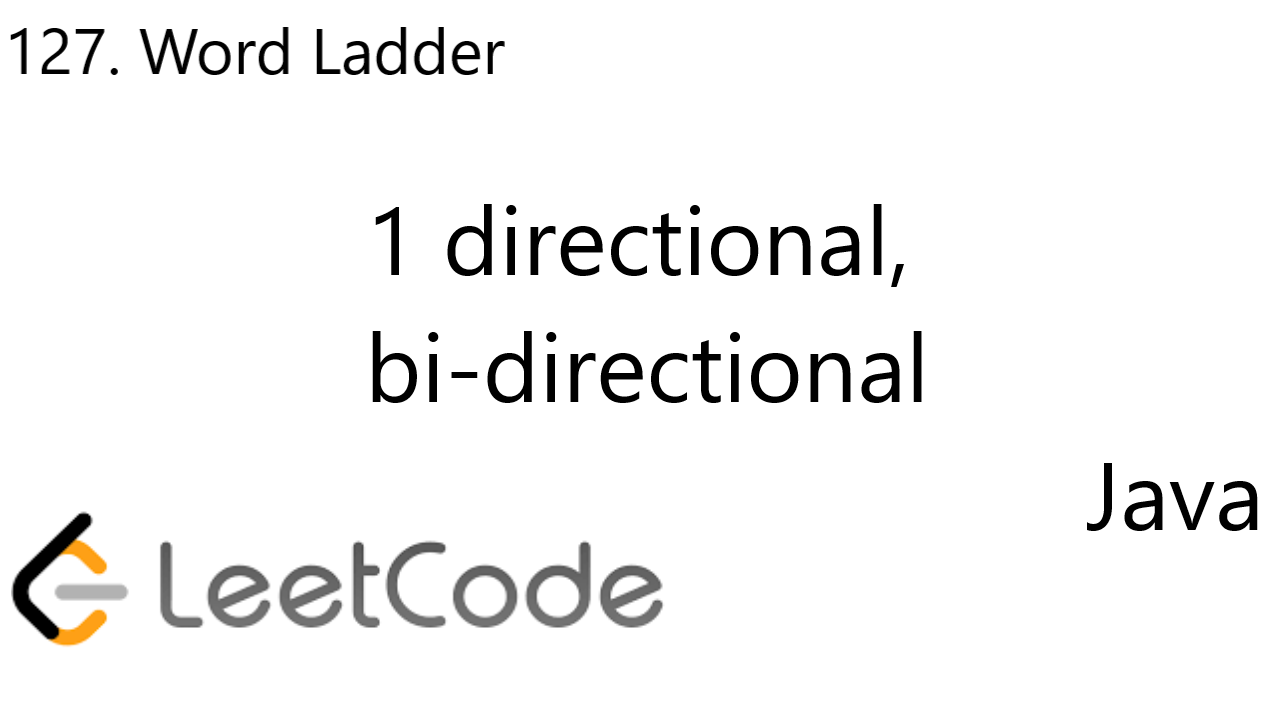
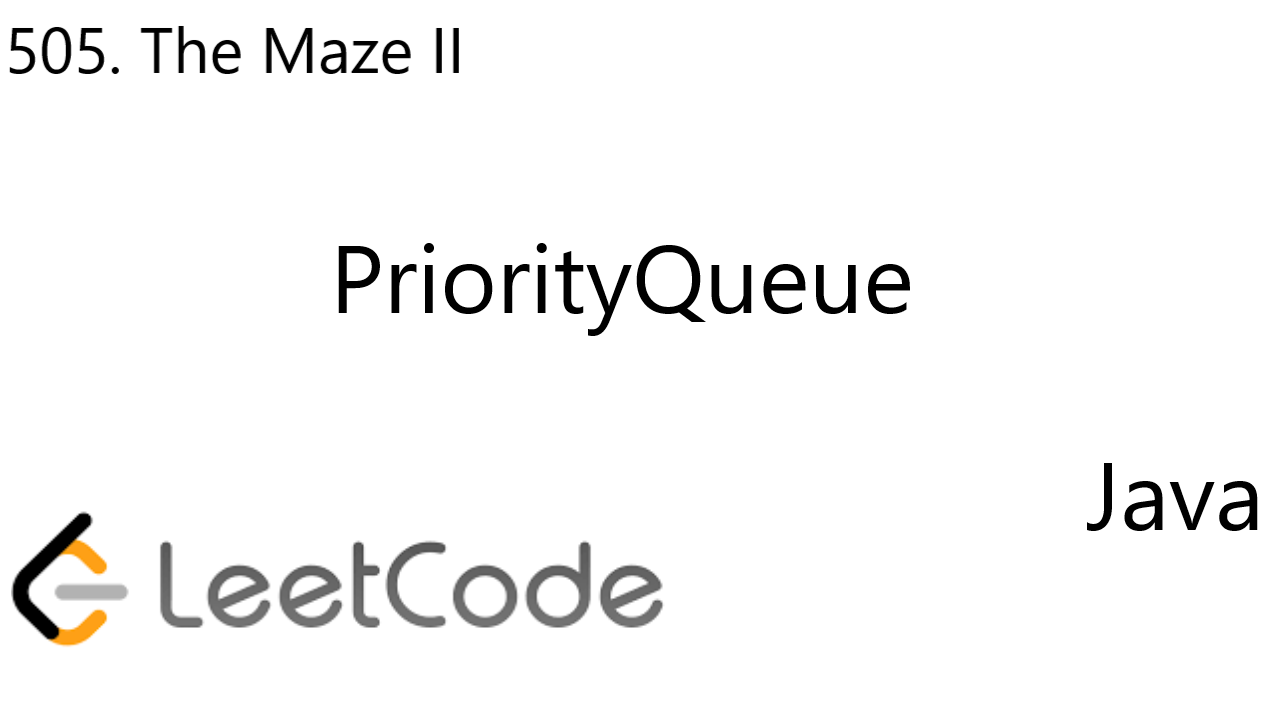
bfs

Changed region(s): [[0.25, 0.275, 0.7188, 0.5806], [0.0, 0.0306, 0.4062, 0.1222]]

diff --git a/LeetCode/00505. The Maze II/README.MD b/LeetCode/00505. The Maze II/README.MD
@@ -1,0 +1,53 @@
+# PriorityQueue
+* Time Complexity: O(NM)
+* Space Complexity: O(NM)
+	* N as length of maze
+	* M as length of maze[0]
+```
+class Solution {
+    int[][] dirs = new int[][]{{-1,0}, {1,0}, {0,1}, {0,-1}};
+    public int shortestDistance(int[][] maze, int[] start, int[] destination) {
+        int n = maze.length,
+            m = maze[0].length;
+        int[][] dist = new int[n][m];
+        for(int i = 0; i < n; i++){
+            Arrays.fill(dist[i], Integer.MAX_VALUE);
+        }
+        dist[start[0]][start[1]] = 0;
+        dijkstra(maze, start, destination, dist);
+        return dist[destination[0]][destination[1]] == Integer.MAX_VALUE? -1: dist[destination[0]][destination[1]];
+    }
+    
+    public void dijkstra(int[][] maze, int[] start, int[] destination, int[][] dist){
+        PriorityQueue<int[]> pq = new PriorityQueue<>((a, b) -> (a[2] - b[2]));//index 0: x, index 1: y, index 2: step
+        pq.offer(new int[]{start[0], start[1], 0});
+        int n = maze.length,
+            m = maze[0].length;
+        while(!pq.isEmpty()){
+            int[] cur = pq.poll();
+            if(cur[0] == destination[0] && cur[1] == destination[1]){
+                return;
+            }
+            for(int[] dir: dirs){
+                int x = dir[0] + cur[0],
+                    y = dir[1] + cur[1],
+                    cur_step = 1;
+                while(x >= 0 && y >= 0 && x < n && y < m && maze[x][y] == 0){
+                    x += dir[0];
+                    y += dir[1];
+                    cur_step++;
+                }
+                x -= dir[0];
+                y -= dir[1];
+                cur_step--;
+                if(dist[cur[0]][cur[1]] + cur_step < dist[x][y]){
+                    dist[x][y] = dist[cur[0]][cur[1]] + cur_step;
+                    pq.add(new int[]{x, y, dist[x][y]});
+                }
+                
+            }
+        }
+        return;
+    }
+}
+```

diff --git a/LeetCode/00490. The Maze/README.MD b/LeetCode/00490. The Maze/README.MD
@@ -1,0 +1,41 @@
+# One direction BFS
+* Time Complexity: O(NM)
+* Space Complexity: O(NM)
+	* N as length of maze
+	* M as length of maze[0]
+```
+class Solution {
+    public boolean hasPath(int[][] maze, int[] start, int[] destination) {
+        int n = maze.length,
+            m = maze[0].length;
+        int[][] dirs = new int[][]{{-1,0},{1,0}, {0,-1}, {0,1}};
+        Queue<int[]> q = new LinkedList();
+        q.offer(start);
+        boolean[][] visited = new boolean[n][m];
+        visited[start[0]][start[1]] = true;
+        while(!q.isEmpty()){
+            int[] cur = q.poll();
+            if(cur[0] == destination[0] && cur[1] == destination[1]){
+                return true;
+            }
+            for(int[] dir: dirs){
+                int x = cur[0] + dir[0],
+                    y = cur[1] + dir[1];
+                while(x >= 0 && y >= 0 && x < n && y < m && maze[x][y] == 0){
+                    x += dir[0];
+                    y += dir[1];
+                }
+                
+                x -= dir[0];
+                y -= dir[1];
+                
+                if(!visited[x][y]){
+                    q.offer(new int[]{x,y});
+                    visited[x][y] = true;
+                }
+            }
+        }
+        return false;
+    }
+}
+```
